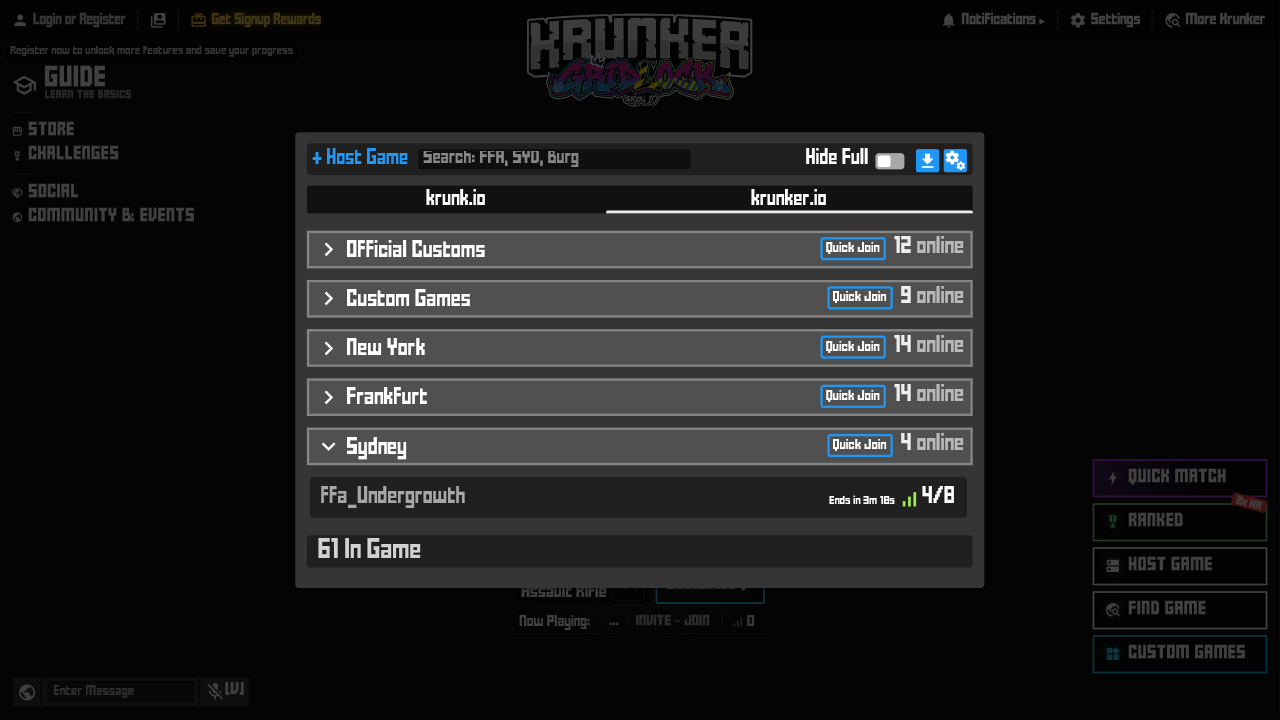
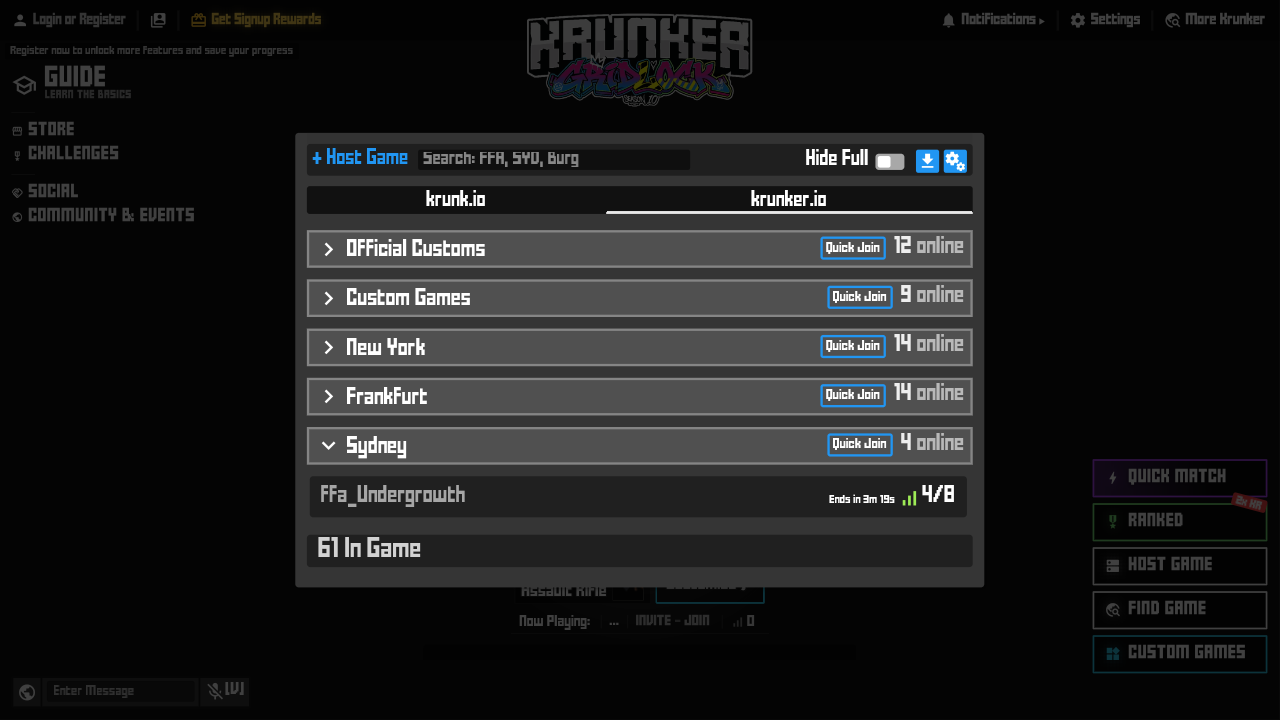
ui: the servers tab strip's margin puts the carousel on a whole pixel
v10's Servers window has no backend tabs; KrunkNative's krunk.io / krunker.io
strip (doc/v10/kn-additions.md) made the centred carousel window 78 CSS px
taller (48 px strip, 30 px margin), 39 px each way: 22.58 device px at
1280x720, so no whole-pixel ref_offset fitted and kn-servers-carousel failed
top-groups 4.234 % and region-groups 3.179 % (max 3).

The strip's margin is 28 px: 76 CSS px, 22.00 device px each way. The
carousel's offsets are +22 / -22. kn-servers-carousel after / before:
window-header 0.465 / 0.521, carousel 1.569 / 6.569, top-groups 0.105 /
4.234, region-groups 0.183 / 3.179, footer 0.000 / 0.000.

The official scenarios' offsets, re-fitted by sweeping each region's
ref_offset over the new render (the minimum is sharp, the next value 3.6 %
or more): kn-servers-official header +17 (0.146), groups and footer -16
(1.467, 1.214, 0.000); kn-servers-official-open header +16 (0.486), groups
-16 (1.505, 1.215, 0.640, 1.054), footer -17 (0.000). The KN-own baselines
kn-servers-official-error / -mixed got the new render's window region
(295,60 690x600) and keep the rest: 0.000 / 0.003 %.

diff --git a/client/src/ui/servers_ui.c b/client/src/ui/servers_ui.c
@@ -3296,8 +3296,11 @@ static char *gen_list(void) {
 #else
     // the two tabs, one per backend (krunk.io, krunker.io); each shows the map carousel and the groups of its list
     const char *tabs[SERVER_TAB_COUNT] = {I18N("kn.servers.tabKrunk", "krunk.io"), I18N("kn.servers.tabKrunker", "krunker.io")};
-    // srvTabs (krunknative.css) sets the tabs' padding and line-height: the label sits in the middle of each tab
-    sb_append(&sb, "<div class='bigMenTabs srvTabs' style='margin-top:0px !important;margin-bottom:30px !important;'>");
+    // srvTabs (krunknative.css) sets the tabs' padding and line-height: the label sits in the middle of each tab.
+    // The 48px strip and its 28px margin make the centred window 76 CSS px taller than v10's, 38 px each way: a
+    // whole 22 device px at 1280x720, so the uidiff captures line up at a whole-pixel ref_offset (a 30px margin
+    // gave 22.58 px, and the kn-servers-carousel list failed on the 0.42 px left over).
+    sb_append(&sb, "<div class='bigMenTabs srvTabs' style='margin-top:0px !important;margin-bottom:28px !important;'>");
     for (int i = 0; i < SERVER_TAB_COUNT; i++) sb_appendf(&sb, "<div class='bigMenTab%s' onclick='playSelect();windows[1].switchTab(%d)'>%s</div>", g_server_tab == i ? " bigMenTabA" : "", i, tabs[i]);
     sb_append(&sb, "</div>");
 #endif
